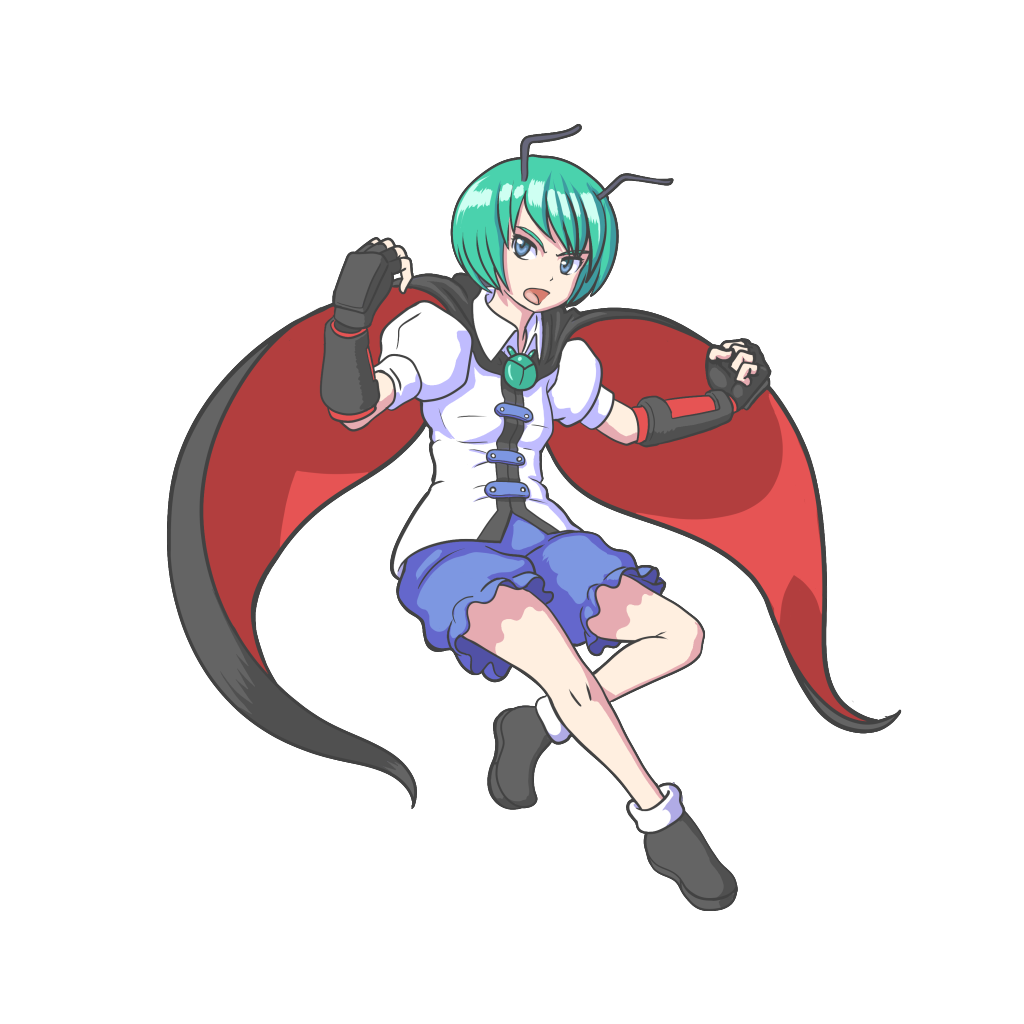
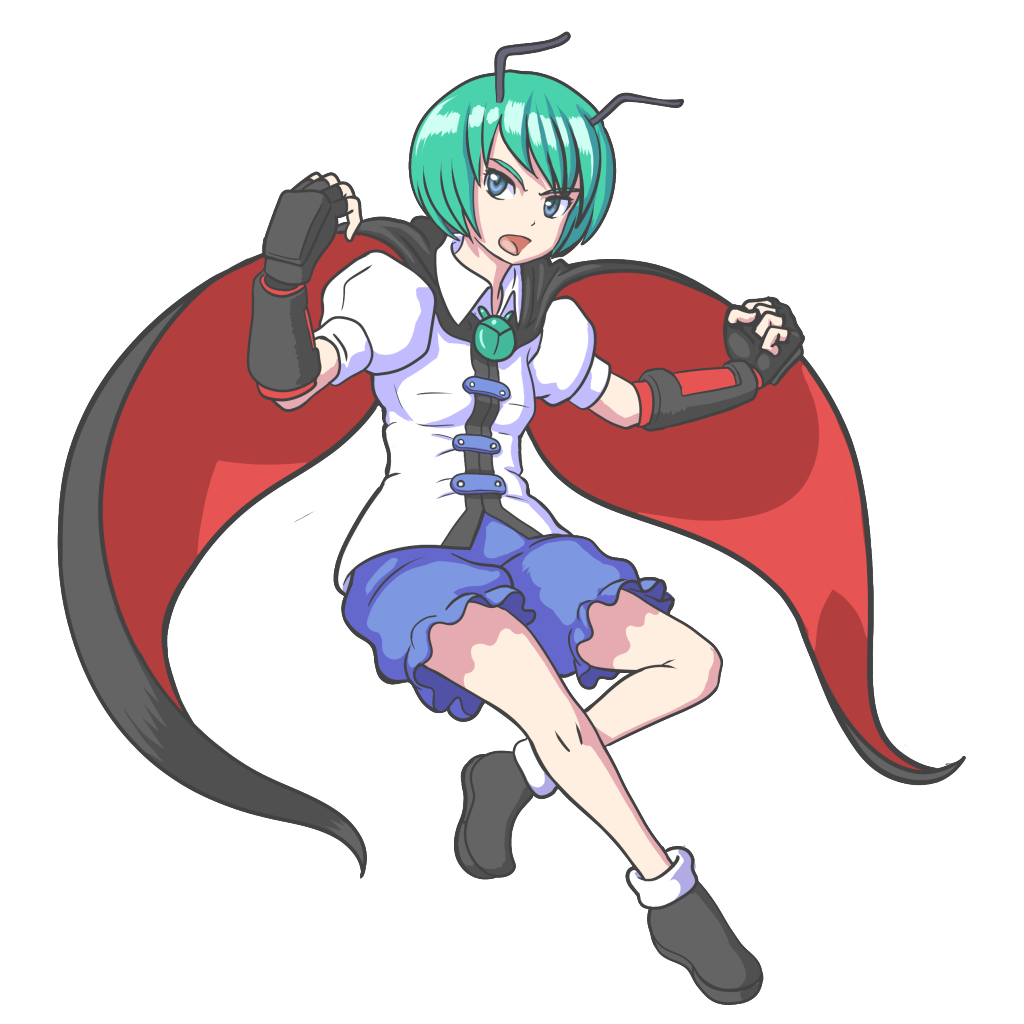
Murasa and Yuugi Portraits by Profit Shame

diff --git a/Assets/Dependencies/SmashBrew/Character/CharacterData.cs b/Assets/Dependencies/SmashBrew/Character/CharacterData.cs
@@ -191,7 +191,8 @@ namespace HouraiTeahouse.SmashBrew {
         public Rect CropRect(Texture texture) {
             if (!texture)
                 return new Rect(0, 0, 1, 1);
-            return texture.UVToPixelRect(new Rect(_cropPositon.x, _cropPositon.y, _cropSize, _cropSize));
+            float extents = _cropSize / 2;
+            return texture.UVToPixelRect(new Rect(_cropPositon.x - extents, _cropPositon.y - extents, _cropSize, _cropSize));
         }
 
         /// <summary>
